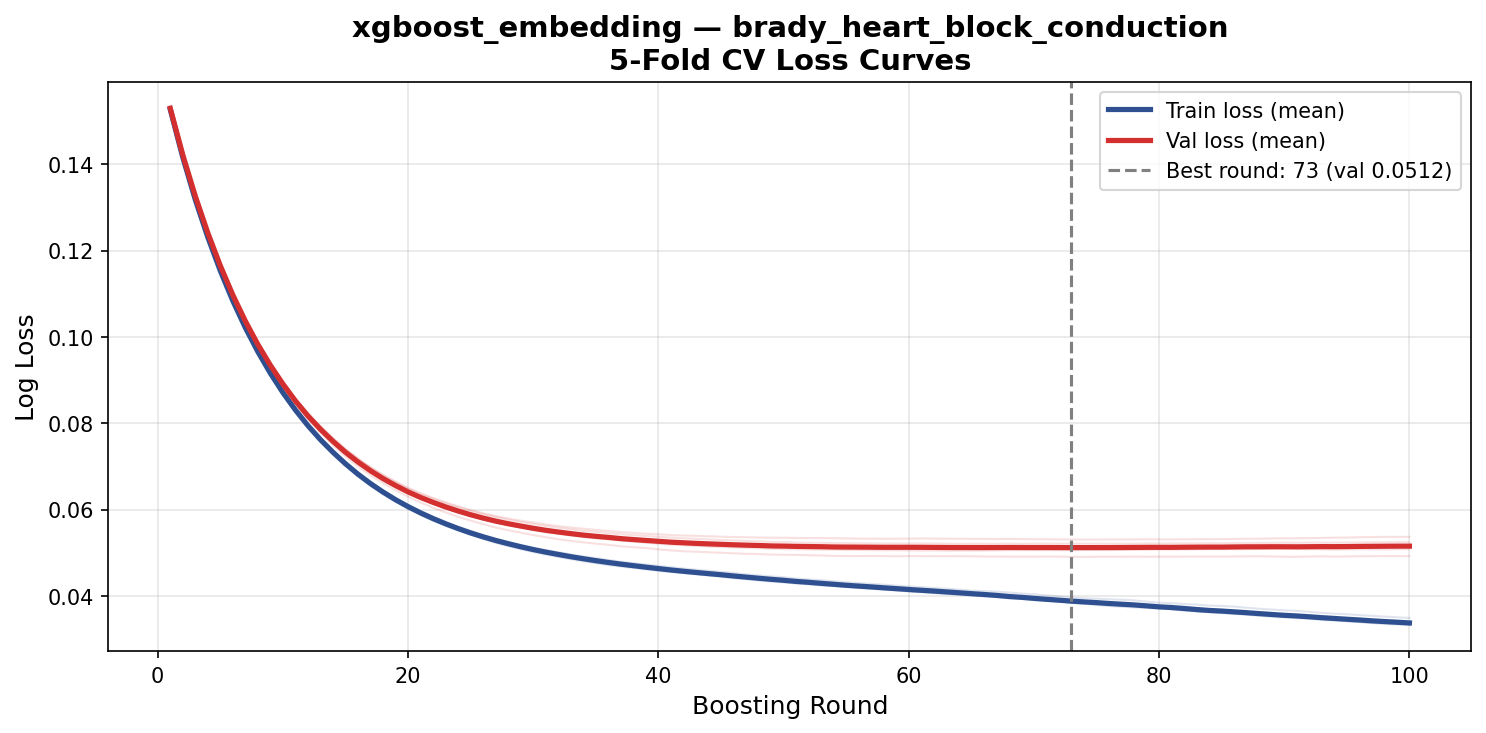
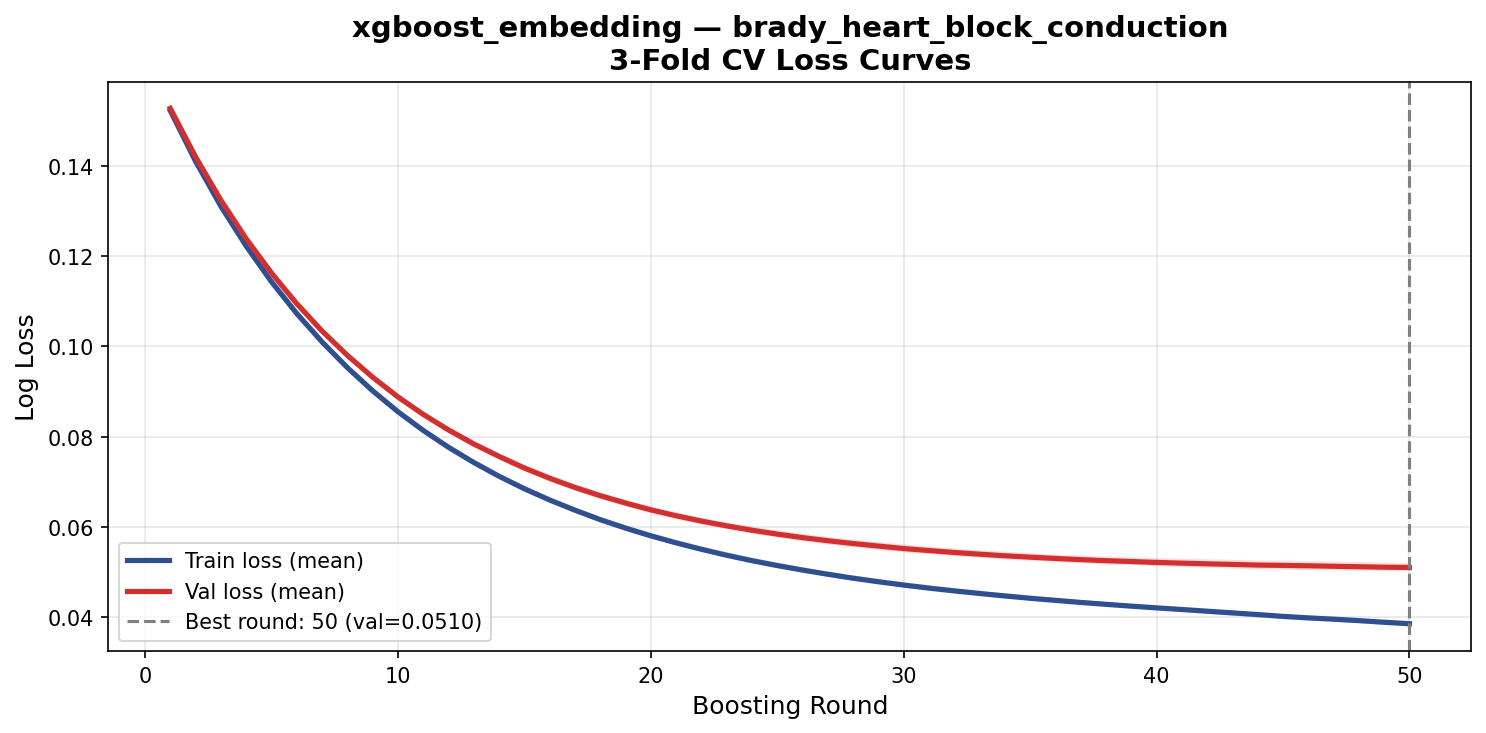
Adding model results

diff --git a/src/models/ecg_fm.py b/src/models/ecg_fm.py
@@ -131,7 +131,8 @@ def extract_embeddings_batched(
         batch_paths = signal_paths[batch_start : batch_start + batch_size]
 
         segs1_list, segs2_list, full_list = [], [], []
-        valid_indices = []
+        valid_indices = []   # indices within the batch
+        valid_global = []    # global indices for skipped-row tracking
 
         for i, path in enumerate(batch_paths):
             try:
@@ -142,6 +143,7 @@ def extract_embeddings_batched(
                 else:
                     full_list.append(sig)
                 valid_indices.append(i)
+                valid_global.append(batch_start + i)
             except Exception as exc:
                 warnings.warn(f"Skipping {path}: {exc}")
 
@@ -173,12 +175,14 @@ def extract_embeddings_batched(
 
             batch_embs = pooled.cpu().numpy()
 
-        all_embs.append(batch_embs)
+        all_embs.append((valid_global, batch_embs))
 
     if not all_embs:
         raise RuntimeError("No embeddings extracted — check signal paths and model.")
 
-    return np.vstack(all_embs)
+    all_indices = [i for indices, _ in all_embs for i in indices]
+    all_arrays = [arr for _, arr in all_embs]
+    return np.vstack(all_arrays), all_indices
 
 
 # ---------------------------------------------------------------------------
@@ -265,16 +269,18 @@ def run_pooled_ecg_extraction(config_path: str, subject_df: pd.DataFrame) -> pd.
         )
 
     paths = subject_df["ecg_path"].tolist()
-    embs = extract_embeddings_batched(model, paths, device)
+    embs, valid_indices = extract_embeddings_batched(model, paths, device)
 
+    # Use only rows that were successfully extracted
+    subject_df_valid = subject_df.iloc[valid_indices].reset_index(drop=True)
     emb_cols = [f"emb_{i}" for i in range(embs.shape[1])]
-    emb_df = pd.DataFrame(embs, columns=emb_cols, index=subject_df.index)
+    emb_df = pd.DataFrame(embs, columns=emb_cols)
 
     del model
     if torch.cuda.is_available():
         torch.cuda.empty_cache()
 
-    return pd.concat([subject_df.reset_index(drop=True), emb_df.reset_index(drop=True)], axis=1)
+    return pd.concat([subject_df_valid, emb_df], axis=1)
 
 
 def run_raw_ecg_extraction(config_path: str, subject_df: pd.DataFrame) -> tuple[pd.DataFrame, np.ndarray]:

diff --git a/src/models/mlp.py b/src/models/mlp.py
@@ -560,7 +560,7 @@ def plot_kfold_loss_curves(
     y: pd.DataFrame,
     out_path: str,
     model_name: str = "mlp",
-    n_splits: int = 5,
+    n_splits: int = 3,
     epochs: int = 100,
     early_stopping_patience: int = 10,
     dropout: float = 0.3,
@@ -1114,7 +1114,7 @@ def run_mlp_embedding_pipeline(in_dir, config_path, out_path):
 
         pbar.set_description(steps[9])
         plot_kfold_loss_curves(
-            X_train, y_train, out_path=out_path, model_name="mlp_embedding_base"
+            X_train, y_train, out_path=out_path, model_name="mlp_embedding"
         )
         pbar.update(1)
 
@@ -1123,7 +1123,7 @@ def run_mlp_embedding_pipeline(in_dir, config_path, out_path):
         pbar.close()
 
         results_df = evaluate_and_visualize_mlp(
-            model, X_test, y_test, y_features, "mlp_embedding_base",
+            model, X_test, y_test, y_features, "mlp_embedding",
             out_path=out_path, label_group_name="Diagnosis Labels",
         )
 

diff --git a/src/models/xgboost_embedding.py b/src/models/xgboost_embedding.py
@@ -92,8 +92,8 @@ def plot_kfold_loss_curves(
     y,
     out_path,
     model_name="xgboost_embedding",
-    n_splits=5,
-    n_estimators=100,
+    n_splits=3,
+    n_estimators=50,
     max_depth=5,
     learning_rate=0.1,
     random_state=42,
@@ -228,6 +228,7 @@ def _train_xgboost(X_train, y_train):
             learning_rate=0.1,
             eval_metric="logloss",
             random_state=42,
+            device="cuda",
         )
         clf.fit(X_train, y_train[col])
         estimators.append(clf)
